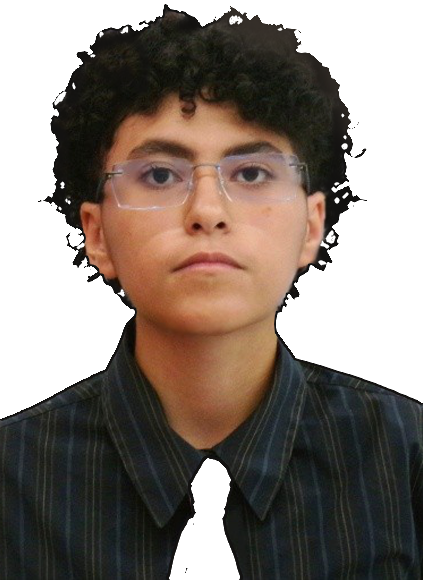
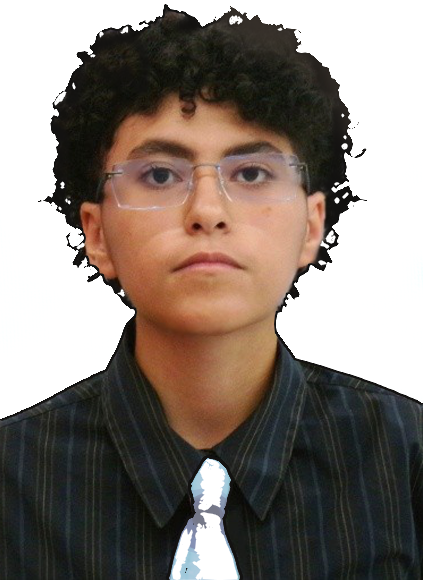
added screws and other style changes

Changed region(s): [[0.3995, 0.8069, 0.5532, 1.0], [0.5532, 0.9621, 0.5839, 1.0], [0.4917, 0.7759, 0.5225, 0.8069]]

diff --git a/index.html b/index.html
@@ -16,83 +16,108 @@
 
 <body>
     <div class="border">
-        <div style="height:90%; padding:2%; display:flex; flex-direction:column">
+        <div class="rowdiv" style="padding:2%; ">
+            <div style="display:flex; flex-direction:column;">
 
-            <div class="box">
+                <div class="box" style="flex:0">
+
+                    <div class="rowdiv">
+
+                        <div class="window" style="border-top-left-radius: 1dvh;border-bottom-left-radius: 1dvh;">
+                            <p class="link_label">G i t h u b</p>
+                            <div id="github" class="wave"></div>
+                            <p class="link_label">L i n k e d i n</p>
+                            <div id="linkedin" class="wave"></div>
+                            <p class="link_label">E m a i l</p>
+                            <div id="email" class="wave"></div>
+                        </div>
+
+                        <div class="content" style="border-left-style:none;padding:0px; background-color:var(--green);">
+                            <img class="portrait" src="images/portrait.png" alt="portrait">
+                        </div>
+
+                        <div class="content" style="border-left-style:none; padding-left:1dvh;border-top-right-radius:1dvh;border-bottom-right-radius:1dvh">
+
+                            <div class="bio">
+                                <h1>Corey Elshobary</h1>
+                                <p>Lassonde School of Engineering, York University: B.Eng., Spec, Hons. Electrical
+                                    Engineering; 7.41/9.00 GPA, Expected Graduation Date: April, 2027</p>
+                                <p>Instructor at <a href="https://www.makerkids.com/">MakerKids</a></p>
+                                <p>Flight Computer Hardware Co Team Lead for York's <a
+                                        href="https://www.arbalestrocketry.ca/">Arbalest Rocketry</a></p>
+                            </div>
+                        </div>
+                    </div>
+                </div>
 
                 <div class="rowdiv">
 
-                    <div class="window">
-                        <p class="link_label">Github</p>
-                        <div id="github" class="wave"></div>
-                        <p class="link_label">Linkedin</p>
-                        <div id="linkedin" class="wave"></div>
-                        <p class="link_label">Email</p>
-                        <div id="email" class="wave"></div>
+                    <div class="coldiv" style="max-width:min-content;">
+
+                        <div class="box">
+                            <h1>box 1</h1>
+                        </div>
+
+                        <div class="box">
+                            <h1>box</h1>
+                        </div>
+
+                        <div class="box">
+                            <h1>box 3</h1>
+
+                        </div>
+
                     </div>
 
-                    <div class="content" style="border-left-style:none;padding:0px; background-color:var(--green);">
-                        <img class="portrait" src="images/portrait.png" alt="portrait">
-                    </div>
+                    <div class="coldiv">
+                        <div class="box" style="max-height:min-content">
+                            <h1>Welcome to my website! It is still under construction so please check back later!</h1>
+                        </div>
 
-                    <div class="content" style="border-left-style:none; padding-left:1dvh;">
+                        <div class="rowdiv">
 
-                        <div class="bio">
-                            <h1>Corey Elshobary</h1>
-                            <p>Lassonde School of Engineering, York University: B.Eng., Spec, Hons. Electrical
-                                Engineering; 7.41/9.00 GPA, Expected Graduation Date: April, 2027</p>
-                            <p>Instructor at <a href="https://www.makerkids.com/">MakerKids</a></p>
-                            <p>Flight Computer Hardware Team Lead for York's <a
-                                    href="https://www.arbalestrocketry.ca/">Arbalest Rocketry</a></p>
-                         </div>
+                        <div class="coldiv">
+                            <div class="box"
+                                style="background-color:var(--darkblue); display:flex; flex-direction:column;">
+                                <div class="screen">
+                                    <h1>box 2</h1>
+
+                                </div>
+                            </div>
+                        </div>
+
+                        <div class="coldiv">
+                            <div class="box">
+                                <h1>box 4</h1>
+                            </div>
+                            <div class="box">
+                                <h1>box 5</h1>
+                            </div>
+                        </div>
+                        </div>
                     </div>
                 </div>
             </div>
-
-            <div class="rowdiv">
-
-                <div class="box" style="max-width:max-content;">
-                    <h1>box 1</h1>
-                </div>
-
-                <div class="box">
-                    <h1>Thank you for visiting my website! This is a work in progress, so please check back later
-                        for updates.</h1>
-                </div>
-
-            </div>
-
-            <div class="rowdiv">
-
-                <div class="box">
-                    <h1>box 3</h1>
-                </div>
-
-                <div class="box">
-                    <h1>box 4</h1>
-                </div>
-
-            </div>
-
-            <div class="rowdiv">
-
-                <div class="box">
-                    <h1>box 5</h1>
-                </div>
-
-                <div class="box">
-                    <h1>box 6</h1>
-                </div>
-
+            <div class="box" style="flex:1; background-color: var(--lime);">
+                <h1>Projects</h1>
             </div>
 
         </div>
-
     </div>
 
     </div>
+ 
+    <div class="screwout" style="top:8dvh;left:4.5dvw;"></div>
+    <div class="screwin" style="top:8dvh;left:4.5dvw;"></div>
 
-    <div class="hinge"></div>
+    <div class="screwout" style="top:36.5dvh;left:4.5dvw;"></div>
+    <div class="screwin" style="top:36.5dvh;left:4.5dvw;"></div>
+
+    <div class="screwout" style="top:8dvh;left:84.2dvw;"></div>
+    <div class="screwin" style="top:8dvh;left:84.2dvw;"></div>
+    
+    <div class="screwout" style="top:36.5dvh;left:84.2dvw;"></div>
+    <div class="screwin" style="top:36.5dvh;left:84.2dvw;"></div>
 
 </body>
 

diff --git a/style.css b/style.css
@@ -27,6 +27,8 @@ body {
 h1{
     font-size: 4dvh;
     font-weight: 400;
+    margin-top: 0.5dvh;
+        margin-bottom: 0.5dvh;
 }
 
 p{
@@ -50,12 +52,13 @@ a{
     background-color: transparent;
     border-style:ridge;
     border-color: var(--green);
+    display: flex;
     
 }
 
 .box{
-    padding-right: 1%;
-    padding-left: 1%;
+    padding-right: 1dvh;
+    padding-left: 1dvh;
     background-color: var(--green);
     position:relative;
     top:0;
@@ -67,7 +70,7 @@ a{
     border-bottom-color:var(--grass);
     border-left-color: var(--darkgreen);
     border-right-color: var(--darkgreen);
-    margin: 0.5%;
+    margin: 0.5dvh;
     flex: 1;
 }
 
@@ -75,6 +78,12 @@ a{
 flex:1; 
 display:flex; 
 flex-direction:row;
+}
+
+.coldiv{
+    flex:1;
+    display:flex;
+    flex-direction:column;
 }
 
 .content{
@@ -94,7 +103,7 @@ flex-direction:row;
     padding:1dvh;
     background-color:var(--grass);
     align-self:center;
-    height: 26dvh;
+    height: 22dvh;
 }
 
 .window {
@@ -113,8 +122,21 @@ flex-direction:row;
     border-style: solid;
 }
 
+.screen{
+    border-style:solid;
+    border-color:var(--blue);
+    border-radius:2%;
+    margin-top:2dvh;
+    margin-bottom:2dvh;
+    margin-right:0px;
+    margin-left:0px;
+    border-radius:2dvw;
+    flex:1;
+}
+    
+
 .portrait{
-    height: 28dvh;
+    height: 24dvh;
     display:block;
     float:left;
     background-color:var(--green);
@@ -126,7 +148,7 @@ flex-direction:row;
 
 .link_label {
     -webkit-text-fill-color:var(--lime);
-    font-size: 3dvh;
+    font-size: 2dvh;
     
 }
 
@@ -135,7 +157,7 @@ flex-direction:row;
     align-self:center;
     background-color:var(--darkblue);
     white-space:nowrap;
-    font-size:2dvh;
+    font-size:3dvh;
     animation:wavelink linear infinite;
 
     font-family: "Doto", sans-serif;
@@ -166,19 +188,40 @@ flex-direction:row;
 }
 
 #github > a{
-    animation-duration: 4.92s;
+    animation-duration: 5.7s;
 }
 
 #linkedin > a{
-    animation-duration: 5s;
+    animation-duration: 9s;
 }
 
 #email > a{
-    animation-duration: 5s;
+    animation-duration: 6.5s;
 }
 
 .hinge{
     position:fixed;
+}
+
+.screwout {
+    position: fixed;
+    align-self:center;
+    width: 0.6dvh;
+    height: 0.6dvh;
+    border-radius: 100%;
+    border-style: solid;
+    border-width: 0.4dvh;
+    border-color: var(--darkblue);
+}
+.screwin{
+    position:fixed;
+    width:0.5dvh;
+    height:0.5dvh;
+    border-radius: 100%;
+    border-style:dashed;
+    border-width:0.4dvh;
+    border-color:var(--blue);
+    background-color:var(--darkblue);
 }
 
 @keyframes waveAnimation {
